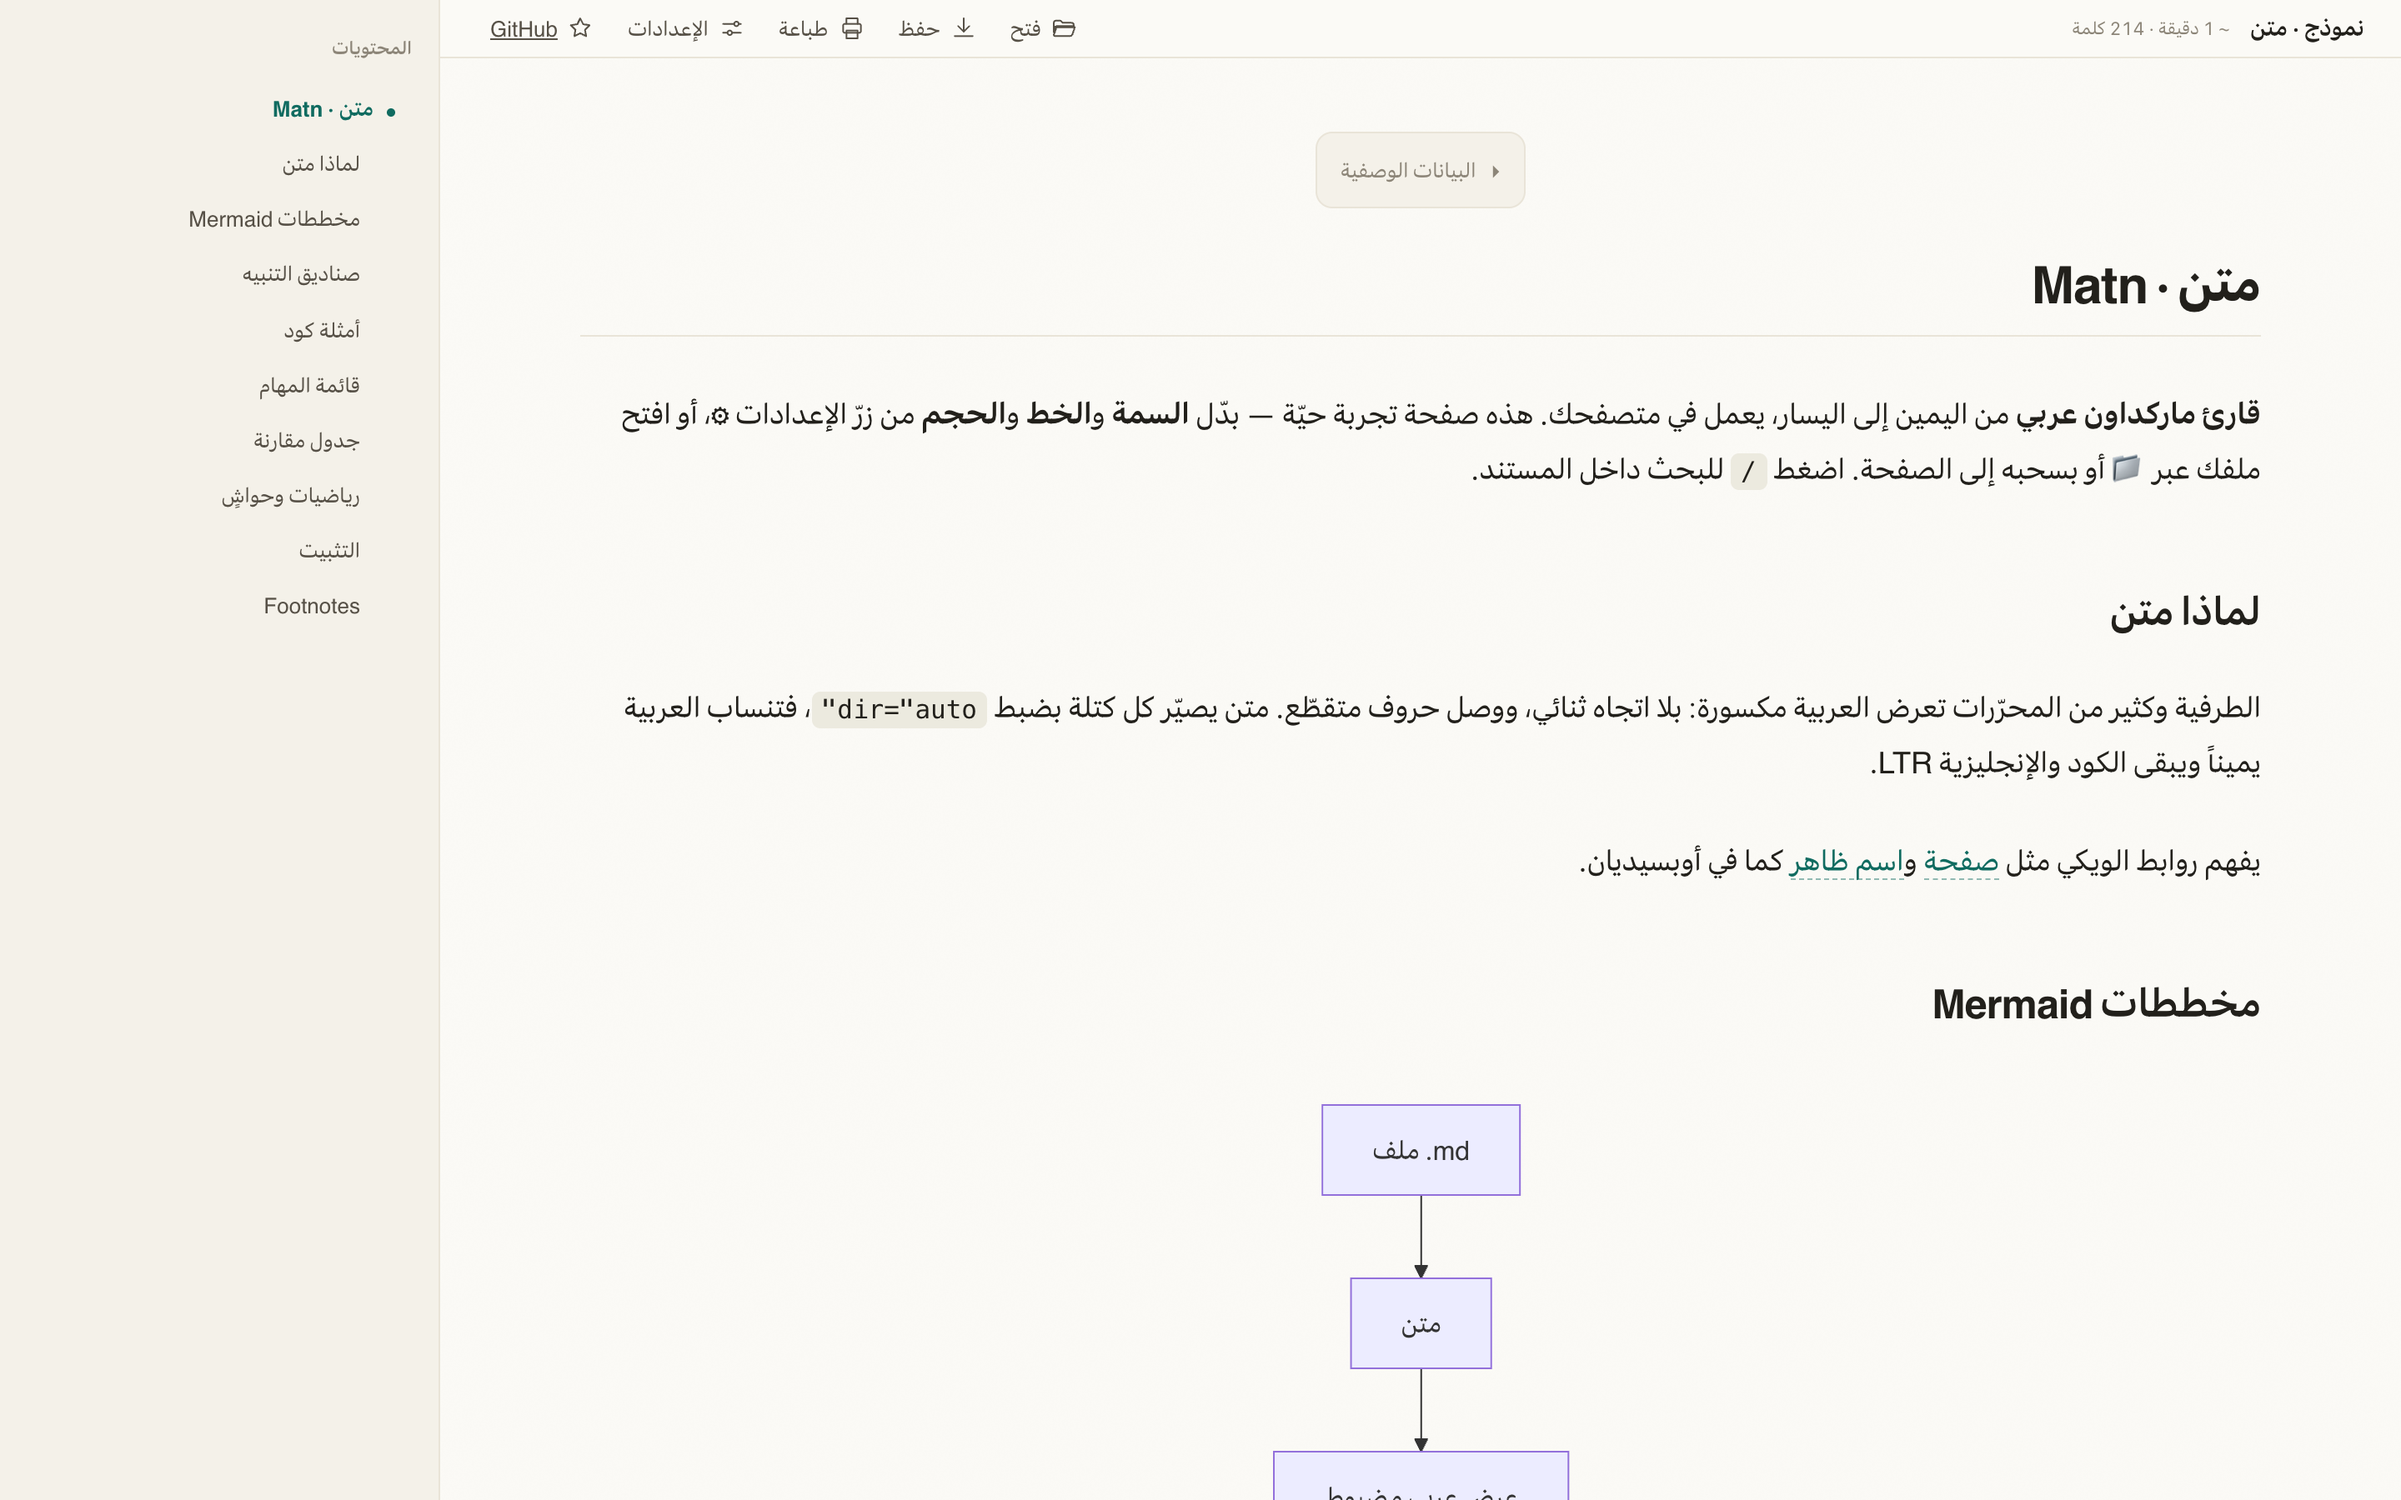
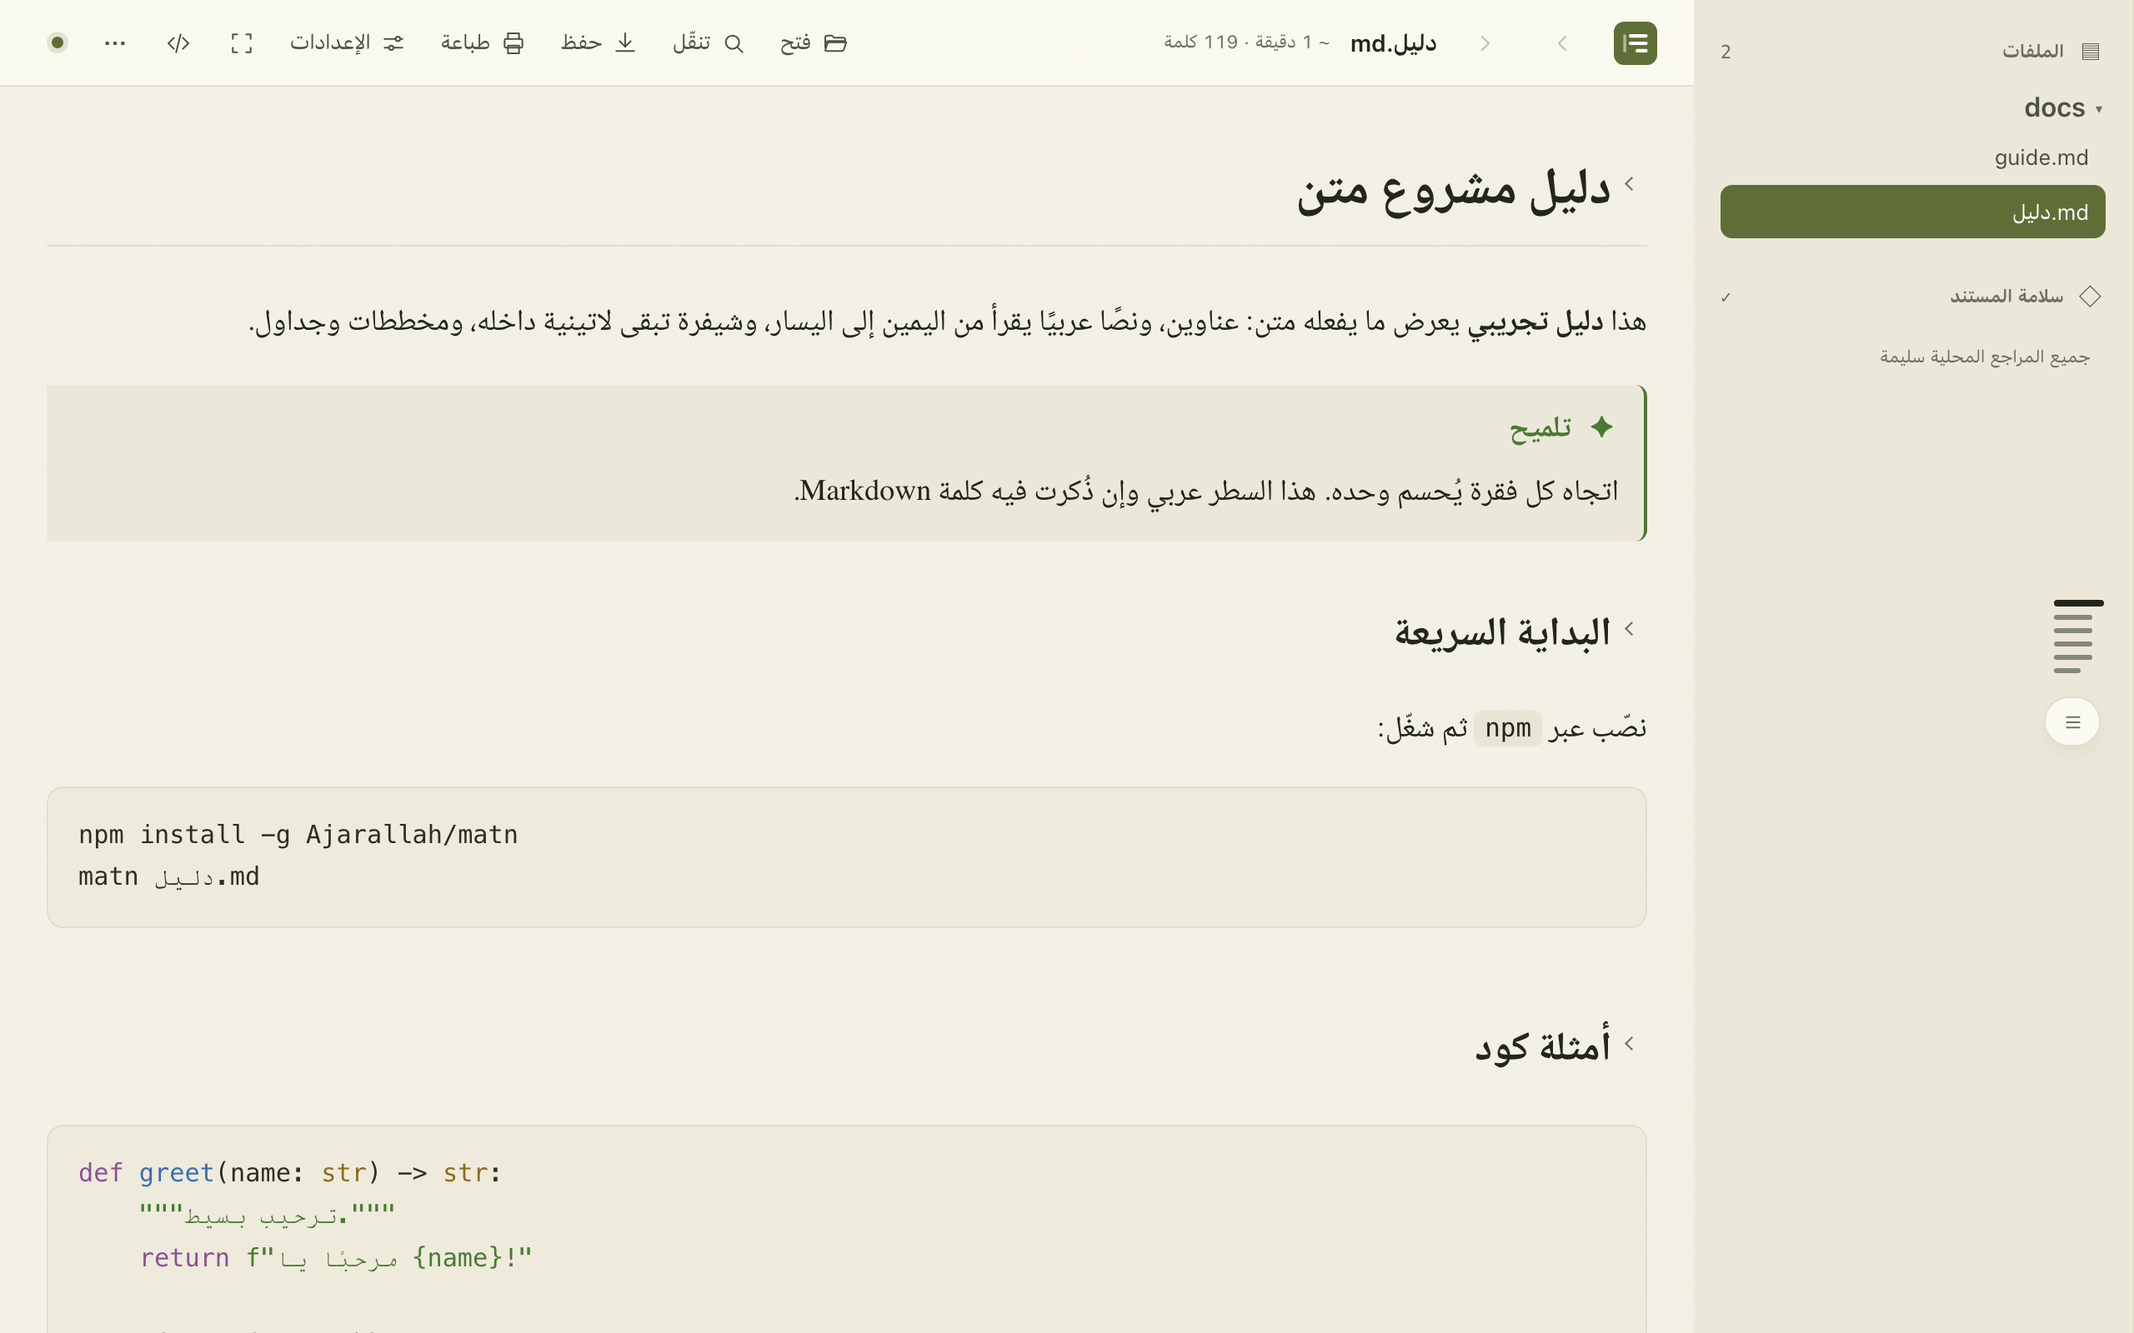
docs: regenerate screenshots in the new identity, repoint the demo link
The four README screenshots were hand-taken and showed the retired teal
palette; there was no script to remake them. scripts/screenshots.mjs now
generates them from the live app against a fixture that exercises what they
claim to show — RTL prose, a mixed-direction line, a callout, code, a table.
Verified byte-identical across runs, so the CI docs gate stays quiet.

Deletes the three orphaned docs/screenshot-*.png: nothing has referenced
them since 6473690. docs/screenshot-light.png stays, now used by the landing
page.

The demo link moves to /matn/try/ in both READMEs and the project page is
linked alongside it; badges drop the teal 0f6d63 for the olive accent.

NOTICE records how the wordmark is licensed: drawn in Thmanyah, stored as
outlined paths, no font file bundled or redistributed.

diff --git a/CHANGELOG.md b/CHANGELOG.md
@@ -18,17 +18,27 @@ Format based on [Keep a Changelog](https://keepachangelog.com).
 - خريطة مستند مصغّرة، ووضع تركيز، وإعدادات قراءة مسبقة، وطي الأقسام، ودرج جوال.
 - إجراءات آمنة لفتح المحرر وإظهار الملف ونقله إلى سلة النظام بعد تأكيد صريح.
 - Skill للمشروع تفتح الملفات في متن من Claude Code عبر `/matn-open`.
+- هوية بصرية كاملة: شعار من أيقونة (ثلاثة أسطر متن وحاشية) وكلمة «متن» مرسومة مساراتٍ من خط ثمانية دون شحن ملف الخط، ومادة زجاجية شبيهة بـLiquid Glass على طبقة التحكم وحدها.
+- صفحة هبوط عربية على جذر GitHub Pages، والقارئ الحي ينتقل إلى `/try/`. تُبنى من `site/landing.html` وتستورد كتلة ألوان القارئ نفسها فلا تنحرف عنها.
+- `scripts/screenshots.mjs` يولّد لقطات README وصفحة الهبوط من التطبيق الحي، ونتيجته متطابقة بايتًا بين التشغيلات.
+- `scripts/wordmark.py` يوثّق كيفية إخراج مسارات الشعار: `hb-shape` للوصل الحرفي ثم `fontTools` للمخططات.
 
 ### Changed
 - أنماط القراءة تشرح بوضوح نوع المحتوى الذي يناسب كل نمط، بدل الاكتفاء بأسماء عامة.
 - خريطة المستند تكشف عنوان كل خط عند المرور، وتنتقل إليه بالنقر، وتغلق قائمتها بالنقر خارجها.
 - طيّ الأقسام صار متحركًا وحالته المرئية أوضح، مع تسميات وصول دقيقة للطي والتوسيع.
 - أقسام المفضلة و«أكمل لاحقًا» والملاحظات موحّدة الاتجاه والأيقونات والعدادات، وتظهر يمين الواجهة العربية.
+- السمات الأربع انتقلت إلى عائلة لون واحدة: ورق من الألباستر وأكسنت زيتوني في الفاتحة، وأرض زيتونية وأكسنت نعناعي في الداكنة. كل زوج نص/خلفية يتجاوز WCAG AA، مقيسًا لا مقدّرًا — وقيمتان كانتا ترسبان قبل ذلك (`--muted` عند 3.29:1 في الفاتح و3.08:1 في سيبيا).
+- الواجهة صار لها مكدّس خطوط خاص (`--ui`) فتوقف خط القراءة الذي يختاره القارئ عن التسرّب إلى القوائم والحوارات.
 
 ### Fixed
 - أدوات تحديد النص تظهر بعد سحب واحد، وتنفّذ التمييز والملاحظة والمفضلة والنسخ مع نتيجة مرئية ومسار نسخ احتياطي.
 - اللوحات والقوائم المؤقتة تغلق بالنقر خارجها أو بمفتاح `Esc` بدل بقائها عالقة.
 - استُبدلت كلمة «حي» المبهمة بمؤشر اتصال هادئ يشرح وظيفة التحديث التلقائي عند المرور.
+- `var(--ui)` كان مستخدمًا في أربعة عشر موضعًا بلا تعريف، فكان كل `font:` مختصر يحتويه باطلًا: `.primary` كان يُرسم 18px/400 بدل 14px/600 المقصود، و`.preset-copy` 18px بدل 11px.
+- الترويسة صارت `flex:none`. كعنصر flex في عمود مع `flex-shrink:1` كانت تنكمش إلى 35px عند فيض المستند، فتفسد كل ثابت مبني على 52px: `.panel{top:52px}` و`scroll-margin-top:66px` و`.findbar{top:64px}` وثلاث قواعد في استعلام 820px.
+- أربع قواعد كانت تكتب `color:#fff` فوق `var(--accent)` — نسبة 1.67:1 مع الأكسنت النعناعي. صار لها `--on-accent`.
+- عرض الديمو على GitHub Pages: `new Worker("/render-worker.js")` لم يكن يُحوَّل ولا يُنسخ، فالمستندات الأكبر من 2MB كانت تصطدم بـ404.
 
 ### Security
 - رمز جلسة عشوائي وفحص `Origin` لكل عمليات الكتابة والتشغيل، مع منع عبور الجذر والروابط الرمزية.

diff --git a/README.md b/README.md
@@ -5,14 +5,14 @@
 **قارئ ماركداون للعربية، من اليمين إلى اليسار.**
 سمات للقراءة، خطوط عربية مدمجة، معادلات، مخططات، وتصدير — يعمل في متصفحك دون اتصال.
 
-**[▶ جرّب النسخة الحيّة](https://ajarallah.github.io/matn/)**
+**[▶ جرّب النسخة الحيّة](https://ajarallah.github.io/matn/try/)** · **[صفحة المشروع](https://ajarallah.github.io/matn/)**
 
 **[English →](./README.en.md)**
 
-[![الرخصة: MIT](https://img.shields.io/badge/license-MIT-0f6d63.svg)](./LICENSE)
-[![الإصدار](https://img.shields.io/github/v/release/Ajarallah/matn?color=0f6d63&label=release)](https://github.com/Ajarallah/matn/releases)
-![Node: 18 فأحدث](https://img.shields.io/badge/node-%3E%3D18-0f6d63.svg)
-![بلا تبعيات](https://img.shields.io/badge/runtime%20deps-none-0f6d63.svg)
+[![الرخصة: MIT](https://img.shields.io/badge/license-MIT-5f6e36.svg)](./LICENSE)
+[![الإصدار](https://img.shields.io/github/v/release/Ajarallah/matn?color=5f6e36&label=release)](https://github.com/Ajarallah/matn/releases)
+![Node: 18 فأحدث](https://img.shields.io/badge/node-%3E%3D18-5f6e36.svg)
+![بلا تبعيات](https://img.shields.io/badge/runtime%20deps-none-5f6e36.svg)
 
 ![متن — السمة الفاتحة](./assets/screenshot-light.png)
 

diff --git a/README.en.md b/README.en.md
@@ -3,14 +3,14 @@
 **A right-to-left Markdown reader for Arabic.**
 Reading themes, embedded Arabic fonts, math, diagrams, and export — all in your browser, fully offline.
 
-**[▶ Try the live demo](https://ajarallah.github.io/matn/)**
+**[▶ Try the live demo](https://ajarallah.github.io/matn/try/)** · **[Project page](https://ajarallah.github.io/matn/)**
 
 **[العربية →](./README.md)**
 
-[![license: MIT](https://img.shields.io/badge/license-MIT-0f6d63.svg)](./LICENSE)
-[![release](https://img.shields.io/github/v/release/Ajarallah/matn?color=0f6d63&label=release)](https://github.com/Ajarallah/matn/releases)
-![node: >=18](https://img.shields.io/badge/node-%3E%3D18-0f6d63.svg)
-![runtime deps: none](https://img.shields.io/badge/runtime%20deps-none-0f6d63.svg)
+[![license: MIT](https://img.shields.io/badge/license-MIT-5f6e36.svg)](./LICENSE)
+[![release](https://img.shields.io/github/v/release/Ajarallah/matn?color=5f6e36&label=release)](https://github.com/Ajarallah/matn/releases)
+![node: >=18](https://img.shields.io/badge/node-%3E%3D18-5f6e36.svg)
+![runtime deps: none](https://img.shields.io/badge/runtime%20deps-none-5f6e36.svg)
 
 ![Matn — light theme](./assets/screenshot-light.png)
 
